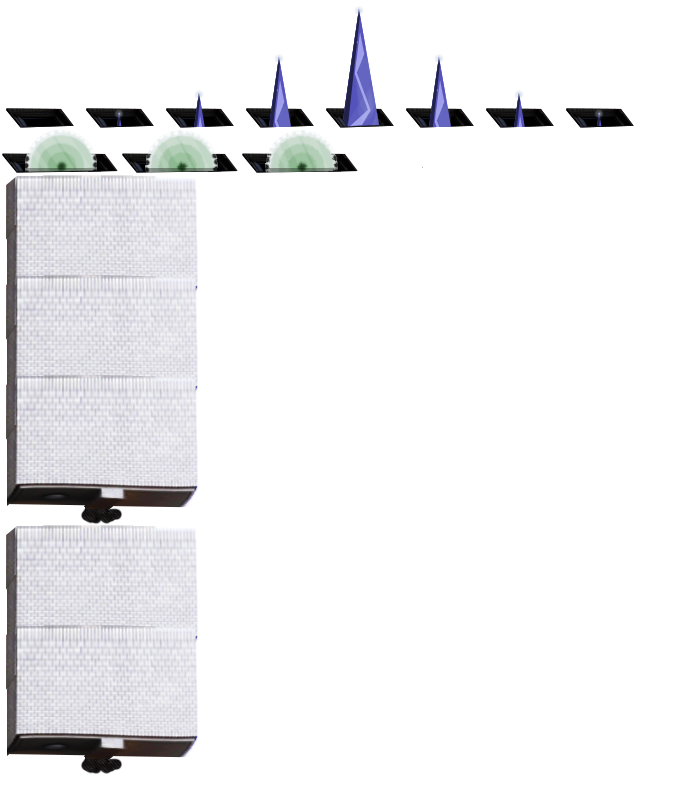
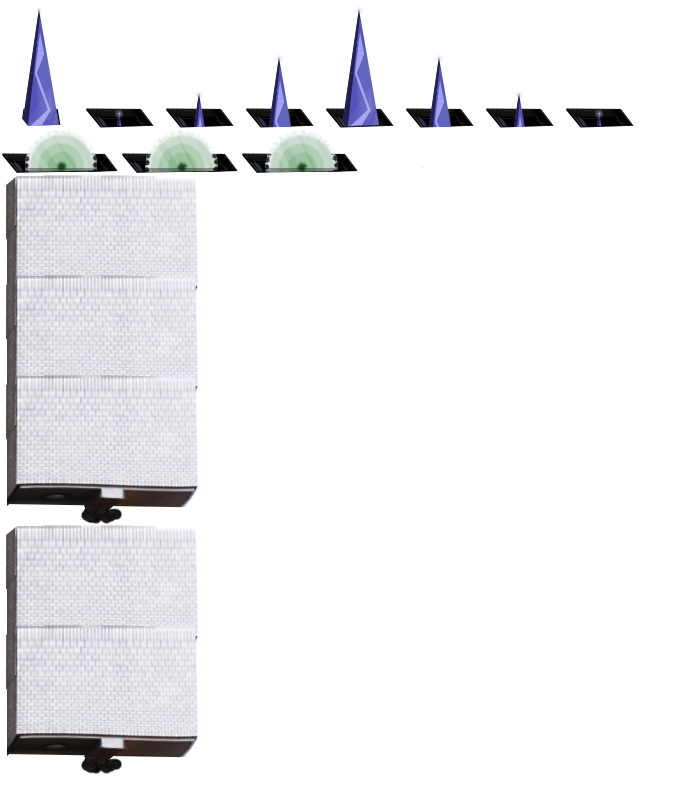
Partly Obstacle collision system added

Changed region(s): [[0.0, 0.0304, 0.1223, 0.1823]]

diff --git a/GAME1007_SDLTemplate/Obstacle.cpp b/GAME1007_SDLTemplate/Obstacle.cpp
@@ -4,6 +4,7 @@ Obstacle::Obstacle(SDL_Rect s, SDL_FRect d,ObstacleTypes type): SpriteObject(s,d
 {
 	m_aniMods = type;
 	m_flip = SDL_FLIP_NONE;
+	m_collisionRect = m_dst;
 	
 	switch (m_aniMods)
 	{
@@ -15,6 +16,7 @@ Obstacle::Obstacle(SDL_Rect s, SDL_FRect d,ObstacleTypes type): SpriteObject(s,d
 		m_dst.y = 521;
 		m_iSpriteMax = 3;
 		m_iSpriteYaxis = 130;
+
 		break;
 	case SPEAR:
 		m_flip = static_cast<SDL_RendererFlip>((rand() % 2)*2);
@@ -22,18 +24,30 @@ Obstacle::Obstacle(SDL_Rect s, SDL_FRect d,ObstacleTypes type): SpriteObject(s,d
 		{
 			m_dst.h = 130;
 			m_dst.y = 436;
+
+			m_rangeMax = m_dst.h;
+			m_moveRange = m_dst.h / 4;
+			m_collisionRect.y -= m_collisionRect.h;
 		}
 		else if(m_flip == SDL_FLIP_VERTICAL)
 		{
 			m_dst.h = 130;
 			m_dst.y = 380;
+
+			m_rangeMax = m_dst.h;
+			m_moveRange = m_dst.h / 4;
+			m_collisionRect.h = 0;
 		}
+		
 		m_src.w = 80;
 		m_src.h = 130;
 		m_dst.w = 80;
-		
-		m_iSpriteMax = 8;
+
+		m_iSpriteMax = 1;
 		m_iSpriteYaxis = 0;
+
+
+		 
 		
 		break;
 	case ROLLWALL:
@@ -51,7 +65,7 @@ Obstacle::Obstacle(SDL_Rect s, SDL_FRect d,ObstacleTypes type): SpriteObject(s,d
 	m_iSprite = m_iFrame = 0;
 	m_iFrameMax = 5;
 
-	
+	m_speed = 3;
 }
 
 Obstacle::~Obstacle()
@@ -65,14 +79,37 @@ void Obstacle::Update()
 	{
 		m_iFrame = 0;
 		m_iSprite++;
+		
 		if (m_iSprite == m_iSpriteMax)
 		{
 			m_iSprite = 0;
+		}
+
+		if (m_aniMods == SPEAR)
+		{
+			if (m_flip == SDL_FLIP_NONE)
+			{
+				if (m_collisionRect.y > m_rangeMax)
+					m_moveRange = -m_moveRange;
+				else if (m_collisionRect.y < 0)
+					m_moveRange = -m_moveRange;
+				m_collisionRect.y += m_moveRange;
+			}
+			else if (m_flip == SDL_FLIP_VERTICAL)
+			{
+				if (m_collisionRect.h > m_rangeMax)
+					m_moveRange = -m_moveRange;
+				else if (m_collisionRect.h < 0)
+					m_moveRange = -m_moveRange;
+				m_collisionRect.h += m_moveRange;
+			}
+
 		}
 	}
 
 	m_src.x = m_src.w * m_iSprite;
 	m_src.y =  m_iSpriteYaxis;
+
 
 	m_dst.x -= 3;
 }
@@ -86,5 +123,10 @@ void Obstacle::Render()
 	//	SDL_RenderCopyExF(Engine::Instance().GetRenderer(), TEMA::GetTexture("obstacles"),
 	//		&m_src, &(m_dst+{0,0,0,0}), 0, nullptr, SDL_FLIP_NONE);
 	//}
+}
+
+SDL_FRect Obstacle::getCollisionRect()
+{
+	return m_collisionRect;
 }
 

diff --git a/GAME1007_SDLTemplate/Obstacle.h b/GAME1007_SDLTemplate/Obstacle.h
@@ -15,8 +15,11 @@ private:
 		m_iSpriteYaxis,
 		m_iFrame,
 		m_iFrameMax;
+	float m_moveRange,m_rangeMax,m_speed;
 
 	SDL_RendererFlip m_flip;
+
+	SDL_FRect m_collisionRect;
 
 public:
 	Obstacle(SDL_Rect s, SDL_FRect d,ObstacleTypes type);
@@ -25,6 +28,7 @@ public:
 	void Update() override;
 	void Render() override;
 
+	SDL_FRect getCollisionRect();
 };
 
 #endif

diff --git a/GAME1007_SDLTemplate/States.cpp b/GAME1007_SDLTemplate/States.cpp
@@ -200,6 +200,12 @@ void GameState::Update()
 		i.second->Update();
 		if (STMA::StateChanging()) return;
 	}
+
+	for (auto element : static_cast<ObstacleManager>(GetGo("OBMA")).getObstacles())
+	{
+		element->getCollisionRect();
+	}
+	
 	//// Check collision. Player vs. asteroids.
 	//if (GetGo("ship") != nullptr)
 	//{

diff --git a/GAME1007_SDLTemplate/ObstacleManager.cpp b/GAME1007_SDLTemplate/ObstacleManager.cpp
@@ -40,3 +40,8 @@ void ObstacleManager::Render()
 		obstacle->Render();
 	}
 }
+
+vector<Obstacle*> ObstacleManager::getObstacles()
+{
+	return m_obstacles;
+}

diff --git a/GAME1007_SDLTemplate/ObstacleManager.h b/GAME1007_SDLTemplate/ObstacleManager.h
@@ -13,5 +13,7 @@ public:
 
 	void Update();
 	void Render();
+
+	vector<Obstacle*> getObstacles();
 };
 

diff --git a/GAME1007_SDLTemplate/Player.h b/GAME1007_SDLTemplate/Player.h
@@ -29,7 +29,9 @@ private:
 	float m_jumpForce,
 		m_velocity,
 		m_gravity;
-	;
+
+	
+	
 };
 
 #endif
